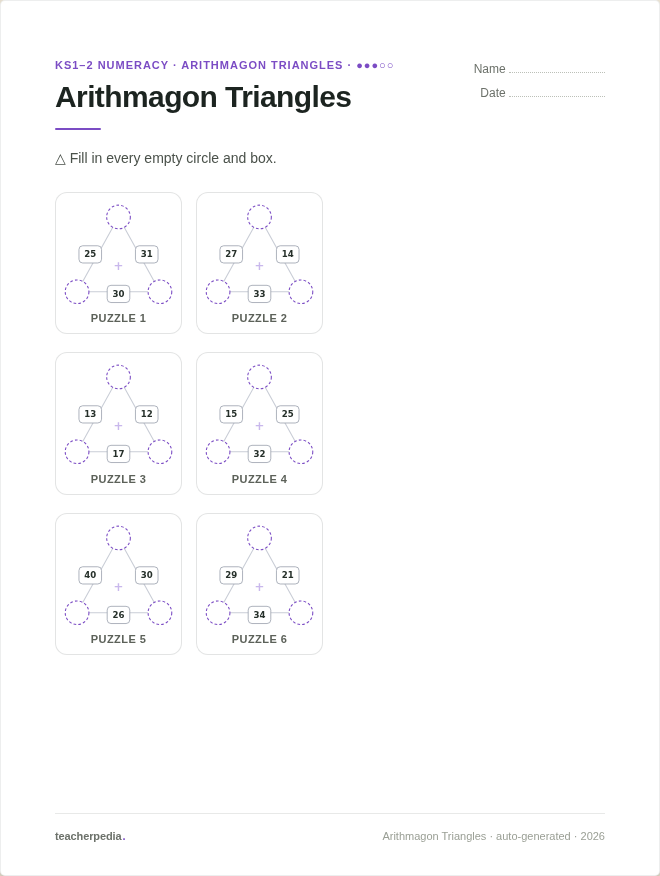
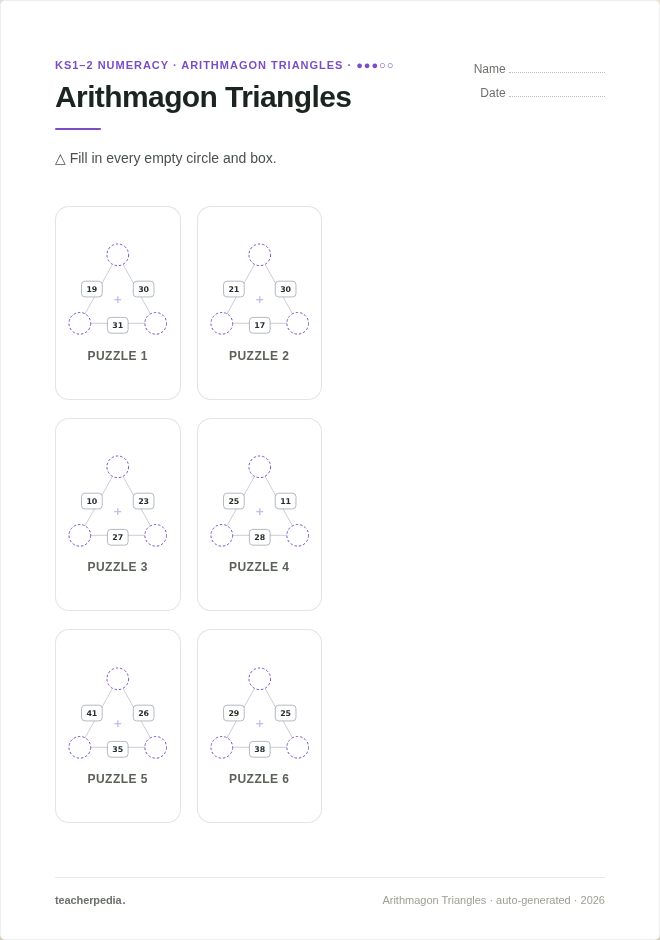
Arithmagon sheet: fill the printed A4 and pin the footer
Visual print review (Chromium PDF of the real A4 output) showed the puzzles
filling only the top corner with a mid-page footer — worst at 9-up.

- Triangles now scale to the full card width instead of a fixed ~210px.
- The sheet is a full-height flex column (overriding tp-print.css's
  .sheet{min-height:0!important} with an !important min-height of 255mm) so the
  puzzle grid fills the printable page; grid-auto-rows:1fr shares the height
  evenly across rows and each triangle is centred with its caption in its cell.
- The footer pins to the bottom of the page (margin-top:auto).
- Verified on the real A4 print output for 4, 6 and 9 puzzles — each fills one
  page with the footer at the bottom (6-up large triangles; 9-up evenly spaced).
- Refreshed the info-page feature image to the new layout.

Claude-Session: https://claude.ai/code/session_01DAwZPbqNSrmfJge6t7jxHG

diff --git a/app/Views/arithmagons/index.php b/app/Views/arithmagons/index.php
@@ -5,30 +5,51 @@
 <?= $this->section('pageHead') ?>
   <link rel="stylesheet" href="<?= base_url('assets/css/tp-print.css') ?>">
   <style>
-    /* Arithmagon sheet — a responsive grid of triangle puzzles. */
+    /* Arithmagon sheet — a responsive grid of triangle puzzles that fills the
+       page. On screen the triangles scale to the card width; in print the sheet
+       becomes a full-height flex column so the grid fills the A4 and the footer
+       pins to the bottom. */
     .ag-grid {
       display: grid;
       grid-template-columns: repeat(var(--ag-cols, 2), 1fr);
-      gap: 18px 14px;
-      margin: 6px 0 10px;
+      gap: 18px 16px;
+      margin: 10px 0 14px;
     }
     .ag-card {
       margin: 0;
       border: 1.5px solid rgba(28,36,32,.12);
-      border-radius: 12px;
-      padding: 10px 6px 6px;
-      display: flex; flex-direction: column; align-items: center;
+      border-radius: 14px;
+      padding: 12px 10px 10px;
+      display: flex; flex-direction: column; align-items: center; justify-content: center;
       background: #fff;
       break-inside: avoid;
     }
-    .ag-svg { display: block; max-width: 100%; height: auto; }
+    .ag-svg { display: block; width: 100%; height: auto; }     /* triangle fills the card width */
     .ag-cap {
-      font-size: 11px; font-weight: 800; letter-spacing: .04em;
+      font-size: 12px; font-weight: 800; letter-spacing: .04em;
       text-transform: uppercase; color: var(--muted, #6c716a);
-      margin-top: 2px;
+      margin-top: 8px;
     }
+    /* The sheet stands as tall as a page; the puzzle rows share the height
+       equally (grid-auto-rows:1fr) so the grid fills the page, each triangle is
+       centred with its caption inside its cell, and the footer pins to the
+       bottom. This reads the same on screen and in print. */
+    .ag-sheet { min-height: 940px; display: flex; flex-direction: column; }
+    .ag-sheet #ag-grid { flex: 1 1 auto; grid-auto-rows: 1fr; }
+    .ag-sheet .ag-card { height: 100%; }
+    .ag-sheet .sheet-foot { margin-top: auto; }
+
     @media print {
-      .ag-card { border-color: rgba(28,36,32,.18); }
+      /* tp-print.css isolates the worksheet with
+         .sheet { position:absolute; min-height:0 !important; padding:0 !important }.
+         Override (with !important) so OUR sheet fills the printable A4 area
+         (297mm − 2×16mm @page margins ≈ 265mm). */
+      .ag-sheet {
+        min-height: 255mm !important;
+        display: flex !important;
+        flex-direction: column !important;
+      }
+      .ag-card { border-color: rgba(28,36,32,.22); }
     }
   </style>
 <?= $this->endSection() ?>
@@ -83,7 +104,7 @@
 
   <!-- DESK -->
   <div class="app-scroll" style="flex:1; padding:38px 44px 80px; display:flex; justify-content:center; align-items:flex-start;">
-    <div class="sheet" style="width:660px;">
+    <div class="sheet ag-sheet" style="width:660px;">
 
       <div style="display:flex; justify-content:space-between; align-items:flex-start; gap:20px;">
         <div style="min-width:0;">
